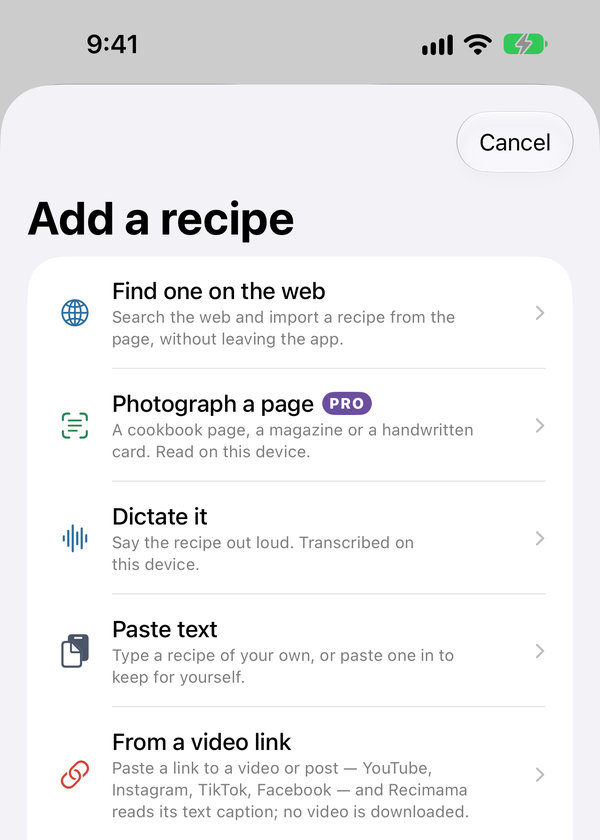
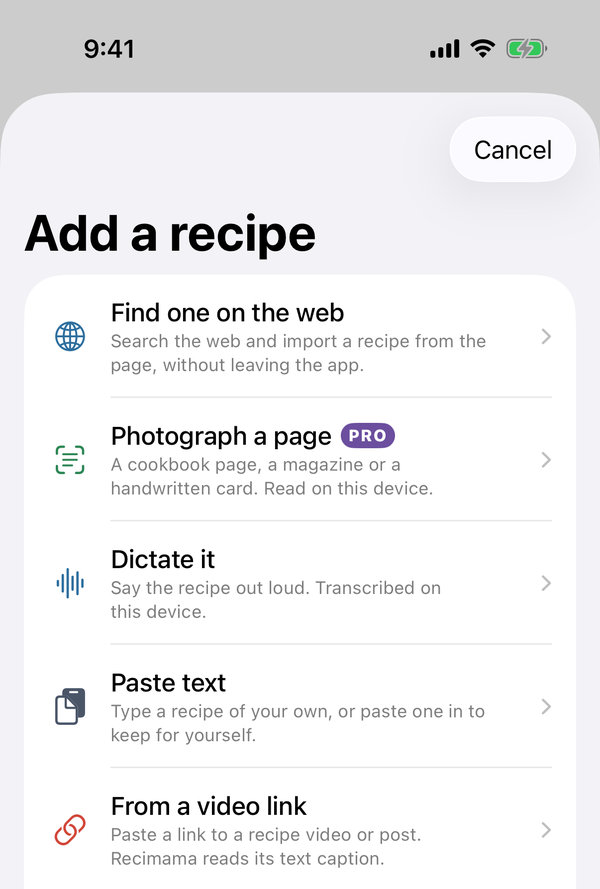
The home page no longer says "no video is downloaded": a post's text caption is read, and with Recimama Pro an Instagram post's own video on your device, deleted afterwards. A new Add a recipe screenshot, with the From a video link row as the app says it now, and its alt text in the app's words

diff --git a/index.html b/index.html
@@ -148,19 +148,22 @@ body_class: home
       <div class="feature-text">
         <h3>Get a recipe in, any way you like.</h3>
 {%- comment -%}
-  Build 3 (the line at 8c9173b, TestFlight build of 7 October 2026). Reading a recipe from a photo is Recimama Pro
-  since 5 October (ProFeature.photoImport: Photograph a page, several pages or screenshots, a photo or screenshot
-  shared to Recimama, and Invent something's three photo routes); the web, the Safari extension, a link, pasted or
-  typed text, dictation and a PDF stay free (ProTerms.whatStaysFree). So the photo routes are said "with Recimama
-  Pro" and never in the free list. The social sentence is items 17 and 17b: a post shared from, or a link pasted
-  from, Instagram, Facebook, TikTok or Threads is read from the page the platform makes for showing it on other
-  sites, a YouTube video's description from its page, and a Pinterest pin from the page it was saved from
-  (SharedPostEmbed, PinterestPin; privacy section 7). Its words are the app's: the tour's "On a recipe, a post or
-  a video, tap Share and choose Recimama", and From a video link's "Recimama reads its text caption; no video is
-  downloaded" (CaptureSheet.videoLinkDetail), with a pin's own "the page the pin was saved from" (CaptureFlows).
+  Reading a recipe from a photo is Recimama Pro since 5 October 2026 (Photograph a page, several pages or
+  screenshots, a photo or screenshot shared to Recimama, and Invent something's three photo routes); the web, the
+  Safari extension, a link, pasted or typed text, dictation and a PDF stay free, as the app's Pro screen says. So
+  the photo routes are said "with Recimama Pro" and never in the free list. The social sentence: a post shared
+  from, or a link pasted from, Instagram, Facebook, TikTok or Threads is read from the page the platform makes for
+  showing it on other sites, a YouTube video's description from its page, and a Pinterest pin from the page it was
+  saved from (privacy section 7). Its words are the app's: the tour's "On a recipe, a post or a video, tap Share
+  and choose Recimama", From a video link's "Paste a link to a recipe video or post. Recimama reads its text
+  caption.", and a pin's own "the page the pin was saved from". The app stopped saying "no video is downloaded" in
+  1.0.1: with Recimama Pro, an Instagram post's own video can be read too, fetched only when asked for, read on the
+  device and deleted afterwards (privacy sections 7 and 8; the app's own words: "reads it on this device and
+  deletes it"). The screenshot is the Add a recipe sheet without Pro, so the photo route has its PRO badge; its
+  rows are the same in 1.0.2 and 1.0.3. It is cut just above the line under From a video link.
 {%- endcomment %}
         <p>Clip it from a web page, share a link, a post or a PDF, dictate it or paste the text, then check what was read before it’s saved. With <a href="#pro">Recimama Pro</a>, photograph a cookbook page or share a screenshot too. Photographed pages and dictation are read on your device.</p>
-        <p>On Instagram, TikTok, Facebook, Threads, YouTube or Pinterest, tap Share on a post, a video or a pin and choose Recimama, or paste its link: Recimama reads its text caption, or for a pin the page it was saved from, and no video is downloaded.</p>
+        <p>On Instagram, TikTok, Facebook, Threads, YouTube or Pinterest, tap Share on a post, a video or a pin and choose Recimama, or paste its link: Recimama reads its text caption, or for a pin the page it was saved from. With Recimama Pro, it can also read an Instagram post’s own video on your device, and deletes it afterwards.</p>
 {%- comment -%}
   The duplicate finder (worktree duplicates 0457f00, free): the library notes a recipe saved twice in one
   line, Settings > Find duplicate recipes shows the copies side by side, and "Keep this one" keeps the chosen
@@ -173,7 +176,7 @@ body_class: home
         <figure class="shot">
           <picture>
             <source type="image/webp" srcset="/assets/screens/10-add-a-recipe.webp">
-            <img class="crop" src="/assets/screens/10-add-a-recipe.jpg" width="600" height="840" loading="lazy" alt="The Add a recipe sheet: Find one on the web; Photograph a page, marked PRO, for a cookbook page, a magazine or a handwritten card, read on this device; Dictate it, transcribed on this device; Paste text, to type a recipe of your own or paste one in; and From a video link, where Recimama reads the text caption of a video or post on YouTube, Instagram, TikTok or Facebook and no video is downloaded.">
+            <img class="crop" src="/assets/screens/10-add-a-recipe.jpg" width="600" height="889" loading="lazy" alt="The Add a recipe sheet: Find one on the web, “Search the web and import a recipe from the page, without leaving the app”; Photograph a page, marked PRO, “A cookbook page, a magazine or a handwritten card. Read on this device”; Dictate it, “Say the recipe out loud. Transcribed on this device”; Paste text, “Type a recipe of your own, or paste one in to keep for yourself”; and From a video link, “Paste a link to a recipe video or post. Recimama reads its text caption.”">
           </picture>
           <figcaption>From the web, a photographed page, your voice, text or a video link.</figcaption>
         </figure>
